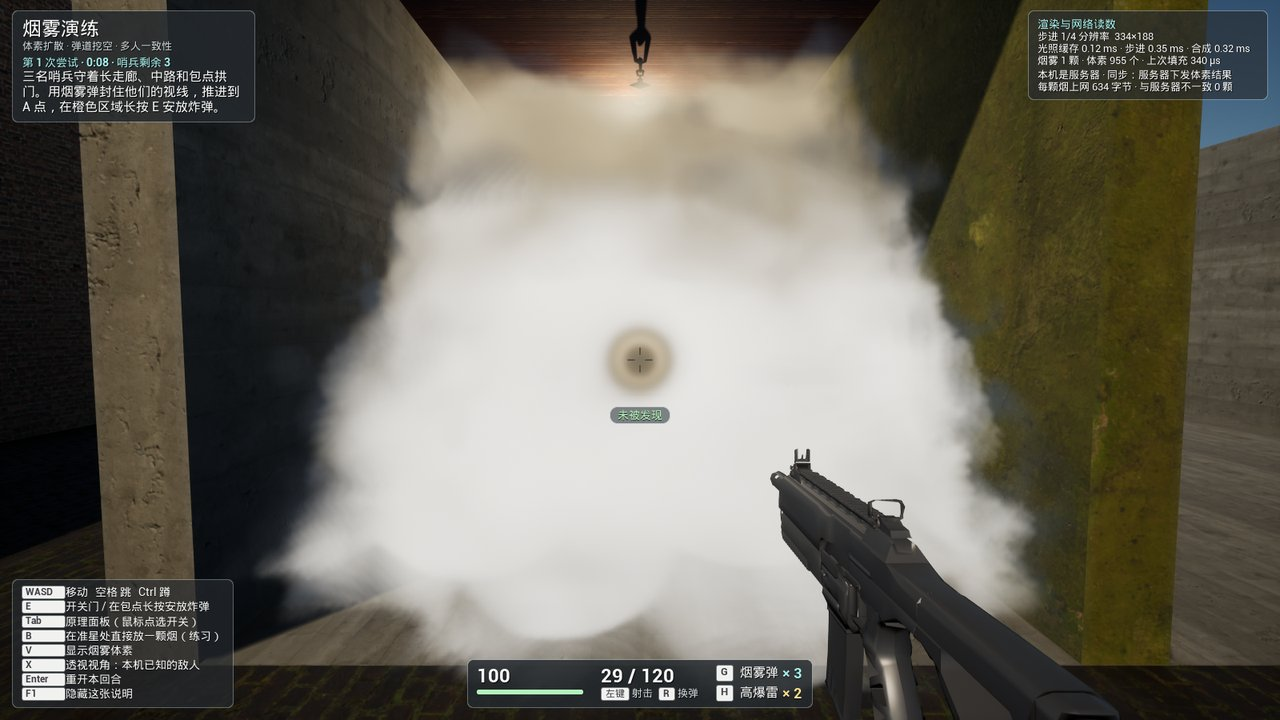
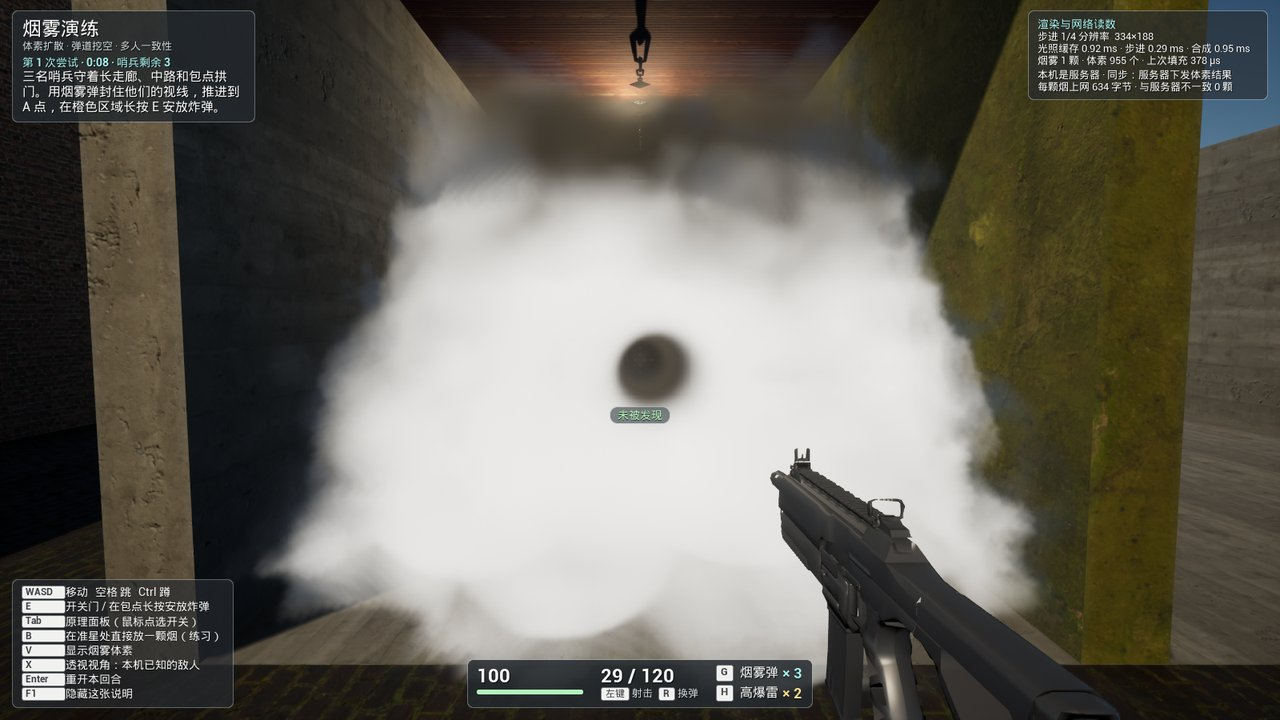
index: GTL-Render-VolumetricSmoke completed

Changed region(s): [[0.3125, 0.0611, 0.6875, 0.3361], [0.4688, 0.4583, 0.5625, 0.5806]]

diff --git a/README.md b/README.md
@@ -10,8 +10,8 @@
 | [3D 场景实时渲染成像素画](#gtl-render-pixelart3d3d-场景实时渲染成像素画) | [GTL-Render-PixelArt3D](https://github.com/RudAns/GTL-Render-PixelArt3D) | 已完成 |
 | [《海狸浮生记》的网格水](#gtl-physics-gridwater海狸浮生记的网格水) | [GTL-Physics-GridWater](https://github.com/RudAns/GTL-Physics-GridWater) | 已完成 |
 | [《盗贼之海》式的共享海面](#gtl-net-sharedocean盗贼之海式的共享海面) | [GTL-Net-SharedOcean](https://github.com/RudAns/GTL-Net-SharedOcean) | 已完成 |
+| [《反恐精英2》式的响应式体积烟雾](#gtl-render-volumetricsmoke反恐精英2式的响应式体积烟雾) | [GTL-Render-VolumetricSmoke](https://github.com/RudAns/GTL-Render-VolumetricSmoke) | 已完成 |
 | [《最后生还者 第二部》的物理绳索](#gtl-physics-rope最后生还者-第二部的物理绳索) | [GTL-Physics-Rope](https://github.com/RudAns/GTL-Physics-Rope) | 未完成 |
-| [《反恐精英2》式的响应式体积烟雾](#gtl-render-volumetricsmoke反恐精英2式的响应式体积烟雾) | [GTL-Render-VolumetricSmoke](https://github.com/RudAns/GTL-Render-VolumetricSmoke) | 未完成 |
 
 ---
 
@@ -95,19 +95,9 @@
 
 ---
 
-## GTL-Physics-Rope：《最后生还者 第二部》的物理绳索
-
-**仓库**：[RudAns/GTL-Physics-Rope](https://github.com/RudAns/GTL-Physics-Rope) · **状态**：未完成
-
-**研究什么**：顽皮狗（Naughty Dog）在 GDC 2021 讲座《Rope Simulation in Uncharted 4 and The Last of Us 2》中介绍的两套绳索系统：动态绳用基于位置的动力学（PBD）配合弯曲约束、摩擦约束、多重网格与局部碰撞平面，张紧绳用连续碰撞求出沿凸边滑动的最短路径。调研对照了 PBD/XPBD、长程约束、Cosserat 杆、Cable Joints 以及 UE 和 Source 引擎的现有实现，并给出改进论证与手游分档。
-
-**Demo 里能做什么**：在一座被水淹的废弃庭院里找到三份补给，每一份都要用一种绳索机制拿到：把绳子抛过钢梁再爬上去，荡过积水，以及拖着长度有限的电缆绕过柱子和断墙接到配电箱。
-
----
-
 ## GTL-Render-VolumetricSmoke：《反恐精英2》式的响应式体积烟雾
 
-**仓库**：[RudAns/GTL-Render-VolumetricSmoke](https://github.com/RudAns/GTL-Render-VolumetricSmoke) · **状态**：未完成
+**仓库**：[RudAns/GTL-Render-VolumetricSmoke](https://github.com/RudAns/GTL-Render-VolumetricSmoke) · **状态**：已完成
 
 ![走廊里的烟按体积守恒规则延伸](docs/images/volumetricsmoke-overview.jpg)
 
@@ -119,9 +109,19 @@
 - “原理面板”按“扩散规则 / 交互 / 渲染 / 网络同步 / 公平性”五组分层列出开关：三种扩散规则、体素与热力图显示、步进分辨率、噪声、光照与上采样方式、两种同步方式与注入的关卡差异、烟雾相关性剔除与透视视角，标明哪些作用于服务器、哪些只改本机画面。
 - 右上角实时显示各渲染阶段的 GPU 耗时、每颗烟的联网字节数和与服务器不一致的烟雾数量。
 
-| 子弹通道：正对枪口看穿烟 | 客户端：烟后的哨兵不再发送，透视视角里只剩一名 |
+| 子弹通道：从枪口打向准星，沿弹道能看穿烟 | 客户端：烟后的哨兵不再发送，透视视角里只剩一名 |
 |---|---|
 | ![子弹通道](docs/images/volumetricsmoke-tunnel.jpg) | ![相关性剔除](docs/images/volumetricsmoke-cull.jpg) |
+
+---
+
+## GTL-Physics-Rope：《最后生还者 第二部》的物理绳索
+
+**仓库**：[RudAns/GTL-Physics-Rope](https://github.com/RudAns/GTL-Physics-Rope) · **状态**：未完成
+
+**研究什么**：顽皮狗（Naughty Dog）在 GDC 2021 讲座《Rope Simulation in Uncharted 4 and The Last of Us 2》中介绍的两套绳索系统：动态绳用基于位置的动力学（PBD）配合弯曲约束、摩擦约束、多重网格与局部碰撞平面，张紧绳用连续碰撞求出沿凸边滑动的最短路径。调研对照了 PBD/XPBD、长程约束、Cosserat 杆、Cable Joints 以及 UE 和 Source 引擎的现有实现，并给出改进论证与手游分档。
+
+**Demo 里能做什么**：在一座被水淹的废弃庭院里找到三份补给，每一份都要用一种绳索机制拿到：把绳子抛过钢梁再爬上去，荡过积水，以及拖着长度有限的电缆绕过柱子和断墙接到配电箱。
 
 ---
 
